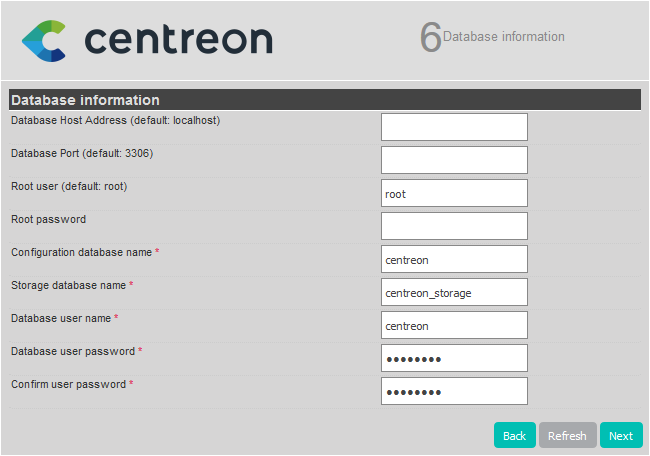
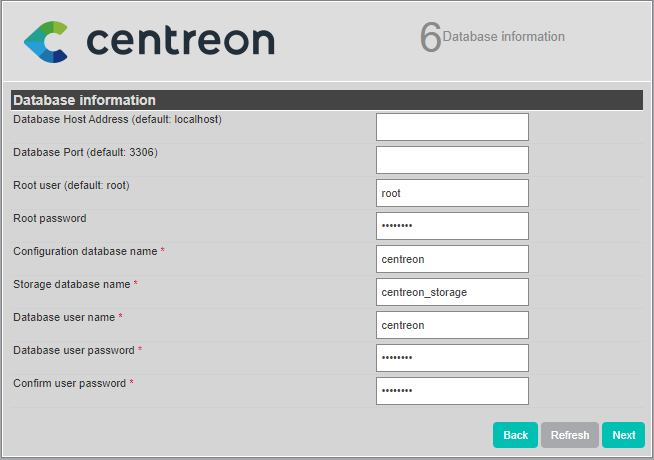
specify root password (#1136)
* specify root password

* Update fr/installation/web-and-post-installation.md

* Update en/installation/web-and-post-installation.md

* Update fr/installation/web-and-post-installation.md

* Update en/installation/web-and-post-installation.md

* update screenshot

* Add info about password

* Fix link

Changed region(s): [[0.0, 0.0, 1.0, 1.0], [0.1231, 0.0614, 0.4308, 0.1228]]

diff --git a/en/installation/web-and-post-installation.md b/en/installation/web-and-post-installation.md
@@ -20,36 +20,36 @@ Then click on **Next**.
 
 ![image](../assets/installation/acentreoncheckmodules.png)
 
-Define pathes used by monitoring engine. We recommand to use defaults.
+Define paths used by monitoring engine. We recommend to use defaults.
 
 Then click on **Next**.
 
 ![image](../assets/installation/amonitoringengine2.png)
 
-Define pathes used by broker module. We recommand to use defaults.
+Define paths used by broker module. We recommend to use defaults.
 
 Then click on **Next**.
 
 ![image](../assets/installation/abrokerinfo2.png)
 
-Define informations for the admin account creation.
+Define the information needed for the admin account creation.
 
 Then click on **Next**.
 
 ![image](../assets/installation/aadmininfo.png)
 
-Provide informations to connect to the database instance.
+Provide the information needed to connect to the database instance.
 
 By default, the instance address is set to *localhost*, the instance root
-user is set to *root* and the root password is empty.
+user is set to *root* and the root password is empty. Since MariaDB 10.5, it has been mandatory to add a password for the root user.  The **Root password** of the database is the password you have defined when executing `mysql_secure_installation` (whether you have installed Centreon from the [ISO](installation-of-a-central-server/using-centreon-iso.html#secure-the-database), from [packages](installation-of-a-central-server/using-packages.html#secure-the-database) or from [sources](installation-of-a-central-server/using-sources.html#secure-the-database)).
 
 > If you use a remote database server, or use a specific root user, change
 > these entries
 
-Then define databases name and credentials that will be created. We recommand
+Then define the databases' names and credentials that will be created. We recommend
 to use default values.
 
-> Centreon database's user password should be the only parameter customized
+> Centreon database's user password and the root password should be the only parameters customized
 > here.
 
 Then click on **Next**.

diff --git a/fr/installation/web-and-post-installation.md b/fr/installation/web-and-post-installation.md
@@ -43,7 +43,7 @@ Puis cliquez sur **Next**.
 Fournissez les informations de connexion à l'instance de base de données.
 
 Par défaut, l'adresse de l'instance est défini à *localhost*, l'utilisateur
-root est défini à *root* et le mot de passe root est vide.
+root est défini à *root* et le mot de passe root est vide. Depuis MariaDB 10.5, il est nécessaire de définir un mot de passe pour l'utilisateur root. Le **Root password** de la base de données est le mot de passe que vous avez défini lorsque vous avez exécuté `mysql_secure_installation` (que vous ayez effectué l'installation à partir de l'[ISO](installation-of-a-central-server/using-centreon-iso.html#sécuriser-la-base-de-données), des [paquets](installation-of-a-central-server/using-packages.html#sécuriser-la-base-de-données) ou bien des [sources](installation-of-a-central-server/using-sources.html#sécurisez-la-base-de-données)).
 
 > Si vous utilisez un serveur de base de données distant, ou un utilisateur
 > root spécifique, il convient de modifier ces deux informations.
@@ -51,8 +51,8 @@ root est défini à *root* et le mot de passe root est vide.
 Puis définissez les noms et identifiants des bases de données qui seront créés.
 Nous recommandons d'utiliser les valeurs par défaut.
 
-> Le mot de passe de l'utilisateur des bases de données Centreon devrait être
-> le seul paramètre modifié ici
+> Le mot de passe de l'utilisateur des bases de données Centreon et mot de passe root devraient être
+> les seuls paramètres modifiés ici
 
 Puis cliquez sur **Next**.
 

diff --git a/en/installation/installation-of-a-remote-server/using-packages.md b/en/installation/installation-of-a-remote-server/using-packages.md
@@ -337,7 +337,7 @@ If you have installed the Centreon server with a local database, since MariaDB 1
 before installing Centreon.
 
 Answer yes to all questions except "Disallow root login remotely?". It is mandatory
-to set a password for the **root** user of the database.
+to set a password for the **root** user of the database. You will need this password during the [web installation](../web-and-post-installation.html).
 
 ```shell
 mysql_secure_installation
@@ -475,7 +475,7 @@ You will receive the validation of the Centreon central server:
 2020-10-16T17:19:37+02:00 [INFO]: The CURRENT NODE 'remote: 'remote-1@192.168.0.2' has been converted and registered successfully.
 ```
 
-### Main errors messages
+### Main error messages
 
 ``` shell
 2020-10-20T10:23:15+02:00 [ERROR]: Invalid credentials

diff --git a/en/installation/installation-of-a-central-server/using-centreon-iso.md b/en/installation/installation-of-a-central-server/using-centreon-iso.md
@@ -157,7 +157,7 @@ systemctl enable php-fpm httpd24-httpd mariadb centreon cbd centengine gorgoned 
 Since MariaDB 10.5, it is necessary to secure the database's installation before installing Centreon.
 
 Answer yes to all questions except "Disallow root login remotely?". It is mandatory
-to set a password for the **root** user of the database.
+to set a password for the **root** user of the database. You will need this password during the [web installation](../web-and-post-installation.html).
 
 ```shell
 mysql_secure_installation

diff --git a/fr/installation/installation-of-a-central-server/using-centreon-iso.md b/fr/installation/installation-of-a-central-server/using-centreon-iso.md
@@ -155,6 +155,7 @@ systemctl enable php-fpm httpd24-httpd mariadb centreon cbd centengine gorgoned 
 Depuis MariaDB 10.5, il est nécessaire de sécuriser son installation avant d'installer Centreon.
 Répondez oui à toute question sauf à "Disallow root login remotely?". 
 Vous devez obligatoirement définir un mot de passe pour l'utilisateur **root** de la base de données.
+Ce mot de passe vous sera demandé lors de l'[installation web](../web-and-post-installation.html).
 
 ```shell
 mysql_secure_installation

diff --git a/fr/installation/installation-of-a-central-server/using-packages.md b/fr/installation/installation-of-a-central-server/using-packages.md
@@ -370,6 +370,7 @@ systemctl enable php-fpm httpd24-httpd mariadb centreon cbd centengine gorgoned 
 Depuis MariaDB 10.5, il est nécessaire de
 sécuriser son installation avant d'installer Centreon. Répondez oui à toute question sauf à "Disallow root login remotely?". 
 Vous devez obligatoirement définir un mot de passe pour l'utilisateur **root** de la base de données.
+Ce mot de passe vous sera demandé lors de l'[installation web](../web-and-post-installation.html).
 
 ```shell
 mysql_secure_installation

diff --git a/en/installation/installation-of-a-central-server/using-packages.md b/en/installation/installation-of-a-central-server/using-packages.md
@@ -368,7 +368,7 @@ Since MariaDB 10.5, it is necessary to secure its installation
 before installing Centreon.
 
 > Answer yes to all questions except to "Disallow root login remotely?". It is mandatory
-> to set a password for the **root** user of the database.
+> to set a password for the **root** user of the database. You will need this password during the [web installation](../web-and-post-installation.html).
 
 ```shell
 mysql_secure_installation

diff --git a/fr/installation/installation-of-a-central-server/using-sources.md b/fr/installation/installation-of-a-central-server/using-sources.md
@@ -691,6 +691,7 @@ Depuis MariaDB 10.5, il est nécessaire de
 sécuriser son installation avant d'installer Centreon.
 Répondez oui à toute question sauf "Disallow root login remotely?".
 Vous devez obligatoirement définir un mot de passe pour l'utilisateur **root** de la base de données.
+Ce mot de passe vous sera demandé lors de l'[installation web](../web-and-post-installation.html).
 
 ```shell
 mysql_secure_installation

diff --git a/fr/installation/installation-of-a-remote-server/using-centreon-iso.md b/fr/installation/installation-of-a-remote-server/using-centreon-iso.md
@@ -159,6 +159,7 @@ sécuriser son installation avant d'installer Centreon.
 
 Répondez oui à toute question sauf "Disallow root login remotely?". 
 Vous devez obligatoirement définir un mot de passe pour l'utilisateur **root** de la base de données.
+Ce mot de passe vous sera demandé lors de l'[installation web](../web-and-post-installation.html).
 
 ```shell
 mysql_secure_installation

diff --git a/fr/installation/installation-of-a-remote-server/using-packages.md b/fr/installation/installation-of-a-remote-server/using-packages.md
@@ -344,6 +344,7 @@ sécuriser son installation avant d'installer Centreon.
 
 Répondez oui à toute question sauf "Disallow root login remotely?". 
 Vous devez obligatoirement définir un mot de passe pour l'utilisateur **root** de la base de données.
+Ce mot de passe vous sera demandé lors de l'[installation web](../web-and-post-installation.html).
 
 ```shell
 mysql_secure_installation

diff --git a/en/installation/installation-of-a-central-server/using-sources.md b/en/installation/installation-of-a-central-server/using-sources.md
@@ -697,6 +697,7 @@ before installing Centreon.
 
 Answer yes to all questions except "Disallow root login remotely?". 
 It is mandatory to set a password for the **root** user of the database.
+You will need this password during the [web installation](../web-and-post-installation.html).
 
 ```shell
 mysql_secure_installation

diff --git a/en/installation/installation-of-a-remote-server/using-centreon-iso.md b/en/installation/installation-of-a-remote-server/using-centreon-iso.md
@@ -161,6 +161,7 @@ before installing Centreon.
 
 Answer yes to all questions except "Disallow root login remotely?". It is mandatory
 to set a password for the **root** user of the database.
+You will need this password during the [web installation](../web-and-post-installation.html).
 
 ```shell
 mysql_secure_installation
